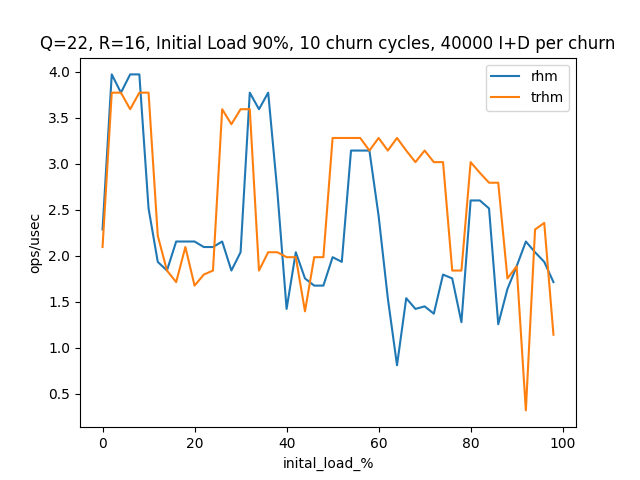
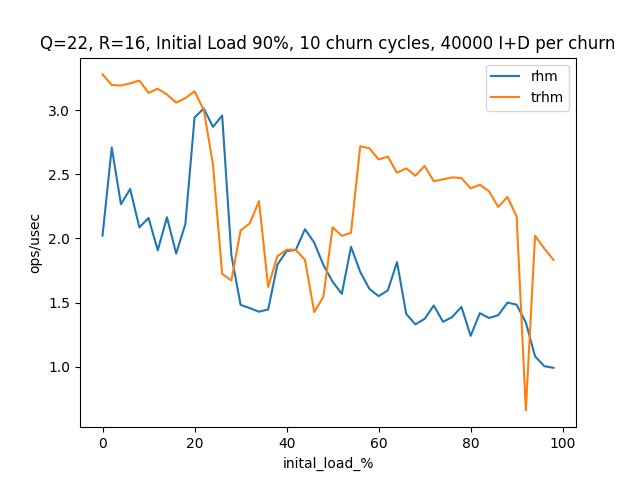
Fix block offset bug in RHM

diff --git a/tests/test_runner.cc b/tests/test_runner.cc
@@ -11,17 +11,15 @@
 
 using namespace std;
 
-uint64_t get_random_key(std::map<uint64_t, uint64_t> map, int key_bits) {
+uint64_t get_random_key(std::vector<std::pair<uint64_t, uint64_t>> map, int key_bits) {
   uint64_t rand_idx = 0;
   rand_idx = rand_idx % map.size();
   // This is not the best way to do this.
-  auto iter = map.begin();
-  std::advance(iter, rand_idx);
-  return iter->first;
+  return map[rand_idx].first;
 }
 
 void generate_ops(int key_bits, int quotient_bits, int value_bits,
-                  int initial_load_factor, int num_ops,
+                  int initial_load_factor, uint64_t num_ops,
                   std::vector<hm_op> &ops) {
   uint64_t nkeys = ((1ULL << quotient_bits) * initial_load_factor) / 100;
   uint64_t *keys = new uint64_t[nkeys];
@@ -30,14 +28,14 @@ void generate_ops(int key_bits, int quotient_bits, int value_bits,
   RAND_bytes((unsigned char *)keys, nkeys * sizeof(uint64_t));
   RAND_bytes((unsigned char *)values, nkeys * sizeof(uint64_t));
 
-  std::map<uint64_t, uint64_t> map;
+  std::vector<std::pair<uint64_t, uint64_t>> map;
   std::vector<uint64_t> deleted_keys;
 
   for (int i = 0; i < nkeys; i++) {
     uint64_t key = keys[i] & BITMASK(key_bits);
     uint64_t value = values[i] & BITMASK(value_bits);
     ops.push_back({INSERT, key, value});
-    map[key] = value;
+    map.push_back(std::make_pair(key, value));
   }
 
   delete keys;
@@ -47,6 +45,9 @@ void generate_ops(int key_bits, int quotient_bits, int value_bits,
   keys = new uint64_t[num_ops];
   RAND_bytes((unsigned char *)values, num_ops * sizeof(uint64_t));
   RAND_bytes((unsigned char *)keys, num_ops * sizeof(uint64_t));
+
+  cout<<"Loaded initial"<<std::endl;
+  cout<<"Loaded initial"<<" "<<num_ops<<std::endl;
 
   for (int i = 0; i < num_ops; i++) {
     int op_type = rand() % 3;
@@ -64,11 +65,6 @@ void generate_ops(int key_bits, int quotient_bits, int value_bits,
       key = keys[i] & BITMASK(key_bits);
     }
 
-    if (map.find(key) != map.end()) {
-      existing_value = map[key];
-    } else {
-      existing_value = -1;
-    }
     new_value = values[i] & BITMASK(value_bits);
 
     switch (op_type) {
@@ -77,21 +73,21 @@ void generate_ops(int key_bits, int quotient_bits, int value_bits,
         break;
       }
       ops.push_back({INSERT, key, new_value});
-      map[key] = new_value;
+      map.push_back(std::make_pair(key, new_value));
       break;
     case DELETE:
       ops.push_back({DELETE, key, existing_value});
       if (existing_value != -1) {
         deleted_keys.push_back(key);
-        map.erase(key);
       }
     case LOOKUP:
-      ops.push_back({LOOKUP, key, existing_value});
+       ops.push_back({LOOKUP, key, existing_value});
       break;
     default:
       break;
     }
   }
+  cout<<"Loaded Ops"<<std::endl;
   delete keys;
   delete values;
 }
@@ -105,11 +101,11 @@ bool should_replay = false;
 std::string datastruct = "all";
 std::string replay_file = "test_case.txt";
 std::map<uint64_t, uint64_t> current_state;
-static int verbose_flag = 1; // 1 for verbose, 0 for brief
+static int verbose_flag = 0; // 1 for verbose, 0 for brief
 
 void check_universe(uint64_t key_bits, std::map<uint64_t, uint64_t> expected,
                     hashmap actual, bool check_equality = false) {
-                      #if 0
+  #if 0
   uint64_t value;
   for (uint64_t k = 0; k <= (1UL << key_bits) - 1; k++) {
     int key_exists = expected.find(k) != expected.end();
@@ -227,38 +223,45 @@ void run_test(const char *hm_name, hashmap hm, std::vector<hm_op> &ops) {
     printf("Testing %s\n", hm_name);
   std::map<uint64_t, uint64_t> map;
   hm.init((1ULL << quotient_bits), key_bits, value_bits);
+  printf("%lu %lu %lu\n", 1ULL<<quotient_bits, key_bits, value_bits);
   uint64_t key, value;
   int ret, key_exists;
-  for (int i = 0; i < ops.size(); i++) {
+  for (uint64_t i = 0; i < ops.size(); i++) {
     auto op = ops[i];
     key = op.key;
     value = op.value;
     if (verbose_flag)
       printf("%d op: %d, key: %lx, value:%lx.\n", i, op.op, key, value);
+    if (i % 1000000==0) {
+      printf("%d\n", i);
+    }
+#if 0
+    if (i >= 3984591 && (i - 3984591) % 100000 == 0) {
+      printf("%lu \n", map.size());
+    }
+    if (map.size() > 1.5 * (1ULL << quotient_bits)) {
+      printf("%lu hohaha\n", i);
+      exit(1);
+    }
+#endif
+  if (i > 11984587) {
+      // check_block_offsets(&g_robinhood_hashmap);
+  }
+
     switch (op.op) {
+
     case INSERT:
-      map[key] = value;
+      // map[key] = value;
       ret = hm.insert(key, value);
-      if (ret < 0 && ret != QF_KEY_EXISTS) {
-        fprintf(stderr,
-                "Insert failed. Replay this testcase with ./test_case -d %s -r "
-                "1 -f %s\n",
-                datastruct.c_str(), replay_file.c_str());
-        abort();
-      }
       check_universe(key_bits, map, hm);
       break;
     case DELETE:
-      key_exists = map.erase(key);
+      //  key_exists = map.erase(key);
       if (verbose_flag)
         printf("key_exists: %d\n", key_exists);
       ret = hm.remove(key);
-      if (key_exists && ret < 0) {
-        fprintf(stderr,
-                "Delete failed. Replay this testcase with ./test_case -d %s -r "
-                "1 -f %s\n",
-                datastruct.c_str(), replay_file.c_str());
-        abort();
+      if (ret < 0) {
+        // abort();
       }
       check_universe(key_bits, map, hm);
       break;
@@ -275,6 +278,12 @@ void run_test(const char *hm_name, hashmap hm, std::vector<hm_op> &ops) {
       }
       break;
     }
+    #if 0
+      if (datastruct == "rhm")
+      check_block_offsets(&g_robinhood_hashmap);
+      else 
+      check_block_offsets(&g_trobinhood_hashmap);
+      #endif
   }
   hm.destroy();
   if (verbose_flag)
@@ -293,7 +302,8 @@ int main(int argc, char **argv) {
     generate_ops(key_bits, quotient_bits, value_bits, initial_load_factor,
                  num_ops, ops);
   }
-  write_ops(replay_file, key_bits, quotient_bits, value_bits, ops);
+  cout<<"Done generating ops!"<<endl;
+  // write_ops(replay_file, key_bits, quotient_bits, value_bits, ops);
   if (datastruct == "all") {
     run_test("RobinHood HashMap", rhm, ops);
     run_test("Tombstone RobinHood Hashmap", trhm, ops);

diff --git a/tests/hm_churn.cc b/tests/hm_churn.cc
@@ -70,6 +70,7 @@ std::vector<hm_op> generate_ops() {
   std::vector<hm_op> ops;
   kv.reserve(num_initial_load_ops + num_churn_ops);
   ops.reserve(num_initial_load_ops + num_churn_ops);
+  cout<<num_initial_load_ops<<endl;
 
   uint64_t *keys = new uint64_t[num_initial_load_ops];
   uint64_t *values = new uint64_t[num_initial_load_ops];
@@ -87,19 +88,24 @@ std::vector<hm_op> generate_ops() {
   uint64_t *keys_indexes_to_delete = new uint64_t[num_churn_ops];
   uint64_t *new_keys = new uint64_t[num_churn_ops];
   uint64_t *new_values = new uint64_t[num_churn_ops];
-  for (int i = 0; i < nchurns; i++) {
+  cout<<num_churn_ops<<" "<<nchurns<<" "<<endl;
+
+    // INSERT NEW KEYS
+    RAND_bytes((unsigned char *)new_keys, num_churn_ops * sizeof(uint64_t));
+    RAND_bytes((unsigned char *)new_values, num_churn_ops * sizeof(uint64_t));
     RAND_bytes((unsigned char *)keys_indexes_to_delete,
                num_churn_ops * sizeof(uint64_t));
-    for (uint64_t i = 0; i < num_churn_ops; i++) {
+
+  for (int j = 0; j < nchurns; j++) {
+    for (uint64_t k = 0; k < nchurn_ops; k++) {
+      uint64_t i = j * nchurn_ops + k;
       uint32_t index = keys_indexes_to_delete[i] % kv.size();
       uint64_t key = kv[index].first;
       uint64_t value = kv[index].second;
       ops.push_back(hm_op{DELETE, key, value});
     }
-    // INSERT NEW KEYS
-    RAND_bytes((unsigned char *)new_keys, num_churn_ops * sizeof(uint64_t));
-    RAND_bytes((unsigned char *)new_values, num_churn_ops * sizeof(uint64_t));
-    for (uint64_t i = 0; i < num_churn_ops; i++) {
+    for (uint64_t k = 0; k < nchurn_ops; k++) {
+      uint64_t i = j * nchurn_ops + k;
       uint64_t key = (new_keys[i] & BITMASK(key_bits));
       uint64_t value = (new_values[i] & BITMASK(value_bits));
       ops.push_back(hm_op{INSERT, key, value});
@@ -236,7 +242,7 @@ void run_ops(std::vector<hm_op> &ops, uint64_t start, uint64_t end, int npoints,
   struct timeval ts[2 * npoints];
   uint64_t nops = (end - start);
   uint64_t i, j, lookup_value = 0;
-  for (int exp = 0; exp < 2 * npoints; exp += 2) {
+  for (uint64_t exp = 0; exp < 2 * npoints; exp += 2) {
     i = (exp / 2) * (nops / npoints) + start;
     j = ((exp / 2) + 1) * (nops / npoints) + start;
     printf("Round: %d OPS %s [%lu %lu]\n", exp, output_file.c_str(), i, j);
@@ -294,7 +300,7 @@ int main(int argc, char **argv) {
     hashmap_ds.destroy();
   } else {
     ops = generate_ops();
-    write_ops(record_replay_file, key_bits, quotient_bits, value_bits, ops);
+    // write_ops(record_replay_file, key_bits, quotient_bits, value_bits, ops);
     hashmap_ds.init(num_slots, key_bits, value_bits);
     // LOAD PHASE.
     run_ops(ops, 0, num_initial_load_keys, npoints, filename_load);

diff --git a/tests/play_test.cc b/tests/play_test.cc
@@ -8,32 +8,25 @@ int main(int argc, char **argv) {
     std::cout<<"RobinHood Hashmap"<<std::endl;
     int key_bits = 16;
     int rem_bits = 16;
-    uint64_t key = 0xffff;
-    g_trhm_init(1<<key_bits, key_bits + rem_bits , 0);
-    key = 0xffff;
-    for (int i=0; i < 255; i++) {
-        g_trhm_insert(key << rem_bits | i, 0);
-    }
-    qf_dump_block(&g_trobinhood_hashmap, 0xffff / 64);
-    qf_dump_block(&g_trobinhood_hashmap, 0xffff / 64 + 1);
-    qf_dump_block(&g_trobinhood_hashmap, 0xffff / 64 + 2);
-    qf_dump_block(&g_trobinhood_hashmap, 0xffff / 64 + 3);
-    qf_dump_block(&g_trobinhood_hashmap, 0xffff / 64 + 4);
-    qf_dump_block(&g_trobinhood_hashmap, 0xffff / 64 + 5);
-    qf_dump_block(&g_trobinhood_hashmap, 0xffff / 64 + 6);
+    uint64_t key = 0x0000;
 
     g_rhm_init(1<<key_bits, key_bits + rem_bits, 0);
-    for (int i=0; i < 256; i++) {
+    for (int i=0; i < 200; i++) {
          g_rhm_insert(key << rem_bits | i, 0);
     }
-    qf_dump_block(&g_robinhood_hashmap, 0xffff / 64);
-    qf_dump_block(&g_robinhood_hashmap, 0xffff / 64 + 1);
-    qf_dump_block(&g_robinhood_hashmap, 0xffff / 64 + 2);
-    qf_dump_block(&g_robinhood_hashmap, 0xffff / 64 + 3);
-    qf_dump_block(&g_robinhood_hashmap, 0xffff / 64 + 4);
-    qf_dump_block(&g_robinhood_hashmap, 0xffff / 64 + 5);
-    qf_dump_block(&g_robinhood_hashmap, 0xffff / 64 + 6);
+    key = 0x0001;
+    for (int i=0; i < 200; i++) {
+         g_rhm_insert(key << rem_bits | i, 0);
+    }
+    qf_dump_block(&g_robinhood_hashmap, key / 64);
+    qf_dump_block(&g_robinhood_hashmap, key / 64 + 1);
+    qf_dump_block(&g_robinhood_hashmap, key / 64 + 2);
+    qf_dump_block(&g_robinhood_hashmap, key / 64 + 3);
+    qf_dump_block(&g_robinhood_hashmap, key / 64 + 4);
+    qf_dump_block(&g_robinhood_hashmap, key / 64 + 5);
+    qf_dump_block(&g_robinhood_hashmap, key / 64 + 6);
     std::cout<<run_end(&g_robinhood_hashmap, key) - key<< "\n";
+    check_block_offsets(&g_robinhood_hashmap);
 
 }
 

diff --git a/include/util.h b/include/util.h
@@ -616,7 +616,7 @@ static inline uint64_t run_end(const QF *qf, uint64_t hash_bucket_index) {
   // But first you need to adjust for bucket offset.
   uint64_t runend_block_index =
       bucket_block_index + bucket_blocks_offset / QF_SLOTS_PER_BLOCK;
-  // Ok what? What if bucket_blocks_offset greater than QF_SLOTS_PER_BLOCK? Let's see.
+  // Bits to ignore in the runend_block_index.
   uint64_t runend_ignore_bits = bucket_blocks_offset % QF_SLOTS_PER_BLOCK;
   uint64_t runend_rank = bucket_intrablock_rank - 1;
   uint64_t runend_block_offset =
@@ -1105,7 +1105,8 @@ remove_replace_slots_and_shift_remainders_and_runends_and_offsets(
         if (get_block(qf, original_block + 1)->offset == 0)
           break;
         get_block(qf, original_block + 1)->offset = 0;
-      } else { // if the last run spans across the block
+      } else if (runend_index - last_occupieds_hash_index <
+            BITMASK(8*sizeof(qf->blocks[0].offset))) {
         if (get_block(qf, original_block + 1)->offset ==
             (runend_index - last_occupieds_hash_index))
           break;

diff --git a/src/gqf.c b/src/gqf.c
@@ -40,6 +40,29 @@ void check_runends_and_occupieds_are_equal(const QF *qf) {
   assert(runend_bits == occupied_bits);
 }
 
+void check_block_offsets(const QF *qf) {
+  uint64_t i;
+  uint64_t runend_bits = 0;
+  uint64_t occupied_bits = 0;
+  for (i = 0; i < qf->metadata->nblocks; i++) {
+    uint64_t b_offset = block_offset(qf, i);
+    uint64_t cur_block = i;
+    uint64_t offset_bits = 0;
+    while(b_offset >= 64) {
+      offset_bits += bitrank(*(get_block(qf, cur_block)->runends), 63);
+      b_offset -= 64;
+      cur_block++;
+    }
+    if (b_offset) {
+      offset_bits += bitrank(*(get_block(qf, cur_block)->runends), b_offset-1);
+    }
+
+    assert(runend_bits + offset_bits == occupied_bits);
+    runend_bits += popcnt(*(get_block(qf, i)->runends));
+    occupied_bits += popcnt(*(get_block(qf, i)->occupieds));
+  }
+}
+
 
 void qf_dump_metadata(const QF *qf) {
   printf("Slots: %lu Occupied: %lu Elements: %lu\n", qf->metadata->nslots,

diff --git a/include/gqf.h b/include/gqf.h
@@ -251,6 +251,7 @@ extern "C" {
 	void qf_dump(const QF *);
 	void qf_dump_long(const QF *);
 	void qf_dump_metadata(const QF *qf);
+  void check_block_offsets(const QF *qf);
 
 #ifdef __cplusplus
 }
